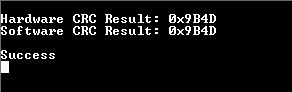
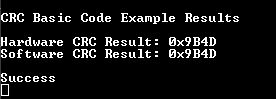
Added setup images, updated README

Changed region(s): [[0.0, 0.1087, 0.8696, 1.0], [0.0, 0.0, 1.0, 0.0652]]

diff --git a/README.md b/README.md
@@ -18,7 +18,7 @@ The code example uses MPLAB(R) Code Configurator Melody CRC Driver to configure 
 - MPLAB® Code Configurator (MCC) Melody **2.6.1** or newer (https://www.microchip.com/melody)
 - CRC Driver **1.0.3** or newer (MCC Content Manager)
 - CRC PLIB **1.3.0** or newer (MCC Content Manager)
-- Any terminal program, like Tera Term (https://ttssh2.osdn.jp/index.html.en) or the MPLAB Data Visualizer
+- Any terminal program, like the MPLAB Data Visualizer or Tera Term (https://ttssh2.osdn.jp/index.html.en)
 
 ## Hardware Used
 
@@ -34,11 +34,36 @@ The code example uses MPLAB(R) Code Configurator Melody CRC Driver to configure 
 
 ## Software Setup
 
-### Terminal Setup
-1. Launch the desired terminal program. 
-2. Create a new connection (Tera Term: File -> New Connection, Data Visualizer: Serial Port list on the left side).
-3. Select the correct COM Port from the dropdown menu on Tera Term or the list on the left on the Data Visualizer.
-4. Verify that the serial port settings match the ones below (Setup -> Serial port on Tera Term, settings icon next to the source dropdown in the input section on the Data Visualizer):
+### Terminal Setup (Data Visualizer)
+
+1. Launch the MPLAB Data Visualizer.
+
+![Data Visualizer Icon](images/data_visualizer_icon.JPG)
+
+2. Find the correct COM Port from the list on the left and click the play button.
+
+![COM Port list withplay button highlighted](images/dv_COM_select_play_highlighted.JPG)
+
+3. Select the "Send to Terminal" button.
+
+![Send to Terminal button](images/dv_data_capture_menu.JPG)
+
+4. Click on the settings icon next to the source dropdown in the input section.
+
+![Source Settings Icon](images/dv_source_settings_button.JPG)
+
+5. Verify that the serial port settings match the ones in the settings image.
+
+![Source Settings Menu](images/dv_source_settings.JPG)
+
+### Terminal Setup (Tera Term)
+1. Launch Tera Term
+2. Go to File -> New Connection.
+3. Select the "Serial" option and select the correct COM Port from the dropdown menu.
+
+![COM port selection](images/tera_term_COM_port_selection.JPG)
+
+4. Go to Setup -> Serial port and ensure that the settings match the ones below.
 
 ![Tera Term Serial Port Settings](images/teraterm_serial_port_menu.JPG)
 
@@ -69,3 +94,5 @@ The result should be 0x9B4D, matching the calculation performed by the MCC Melod
 Once the project is built and the device is programmed, the terminal program will print the results of both the hardware and software calculations.
 
 ![Results printed on Tera Term](images/teraterm_output.JPG)
+
+![Results printed on Data Visualizer](images/dv_output.JPG)
